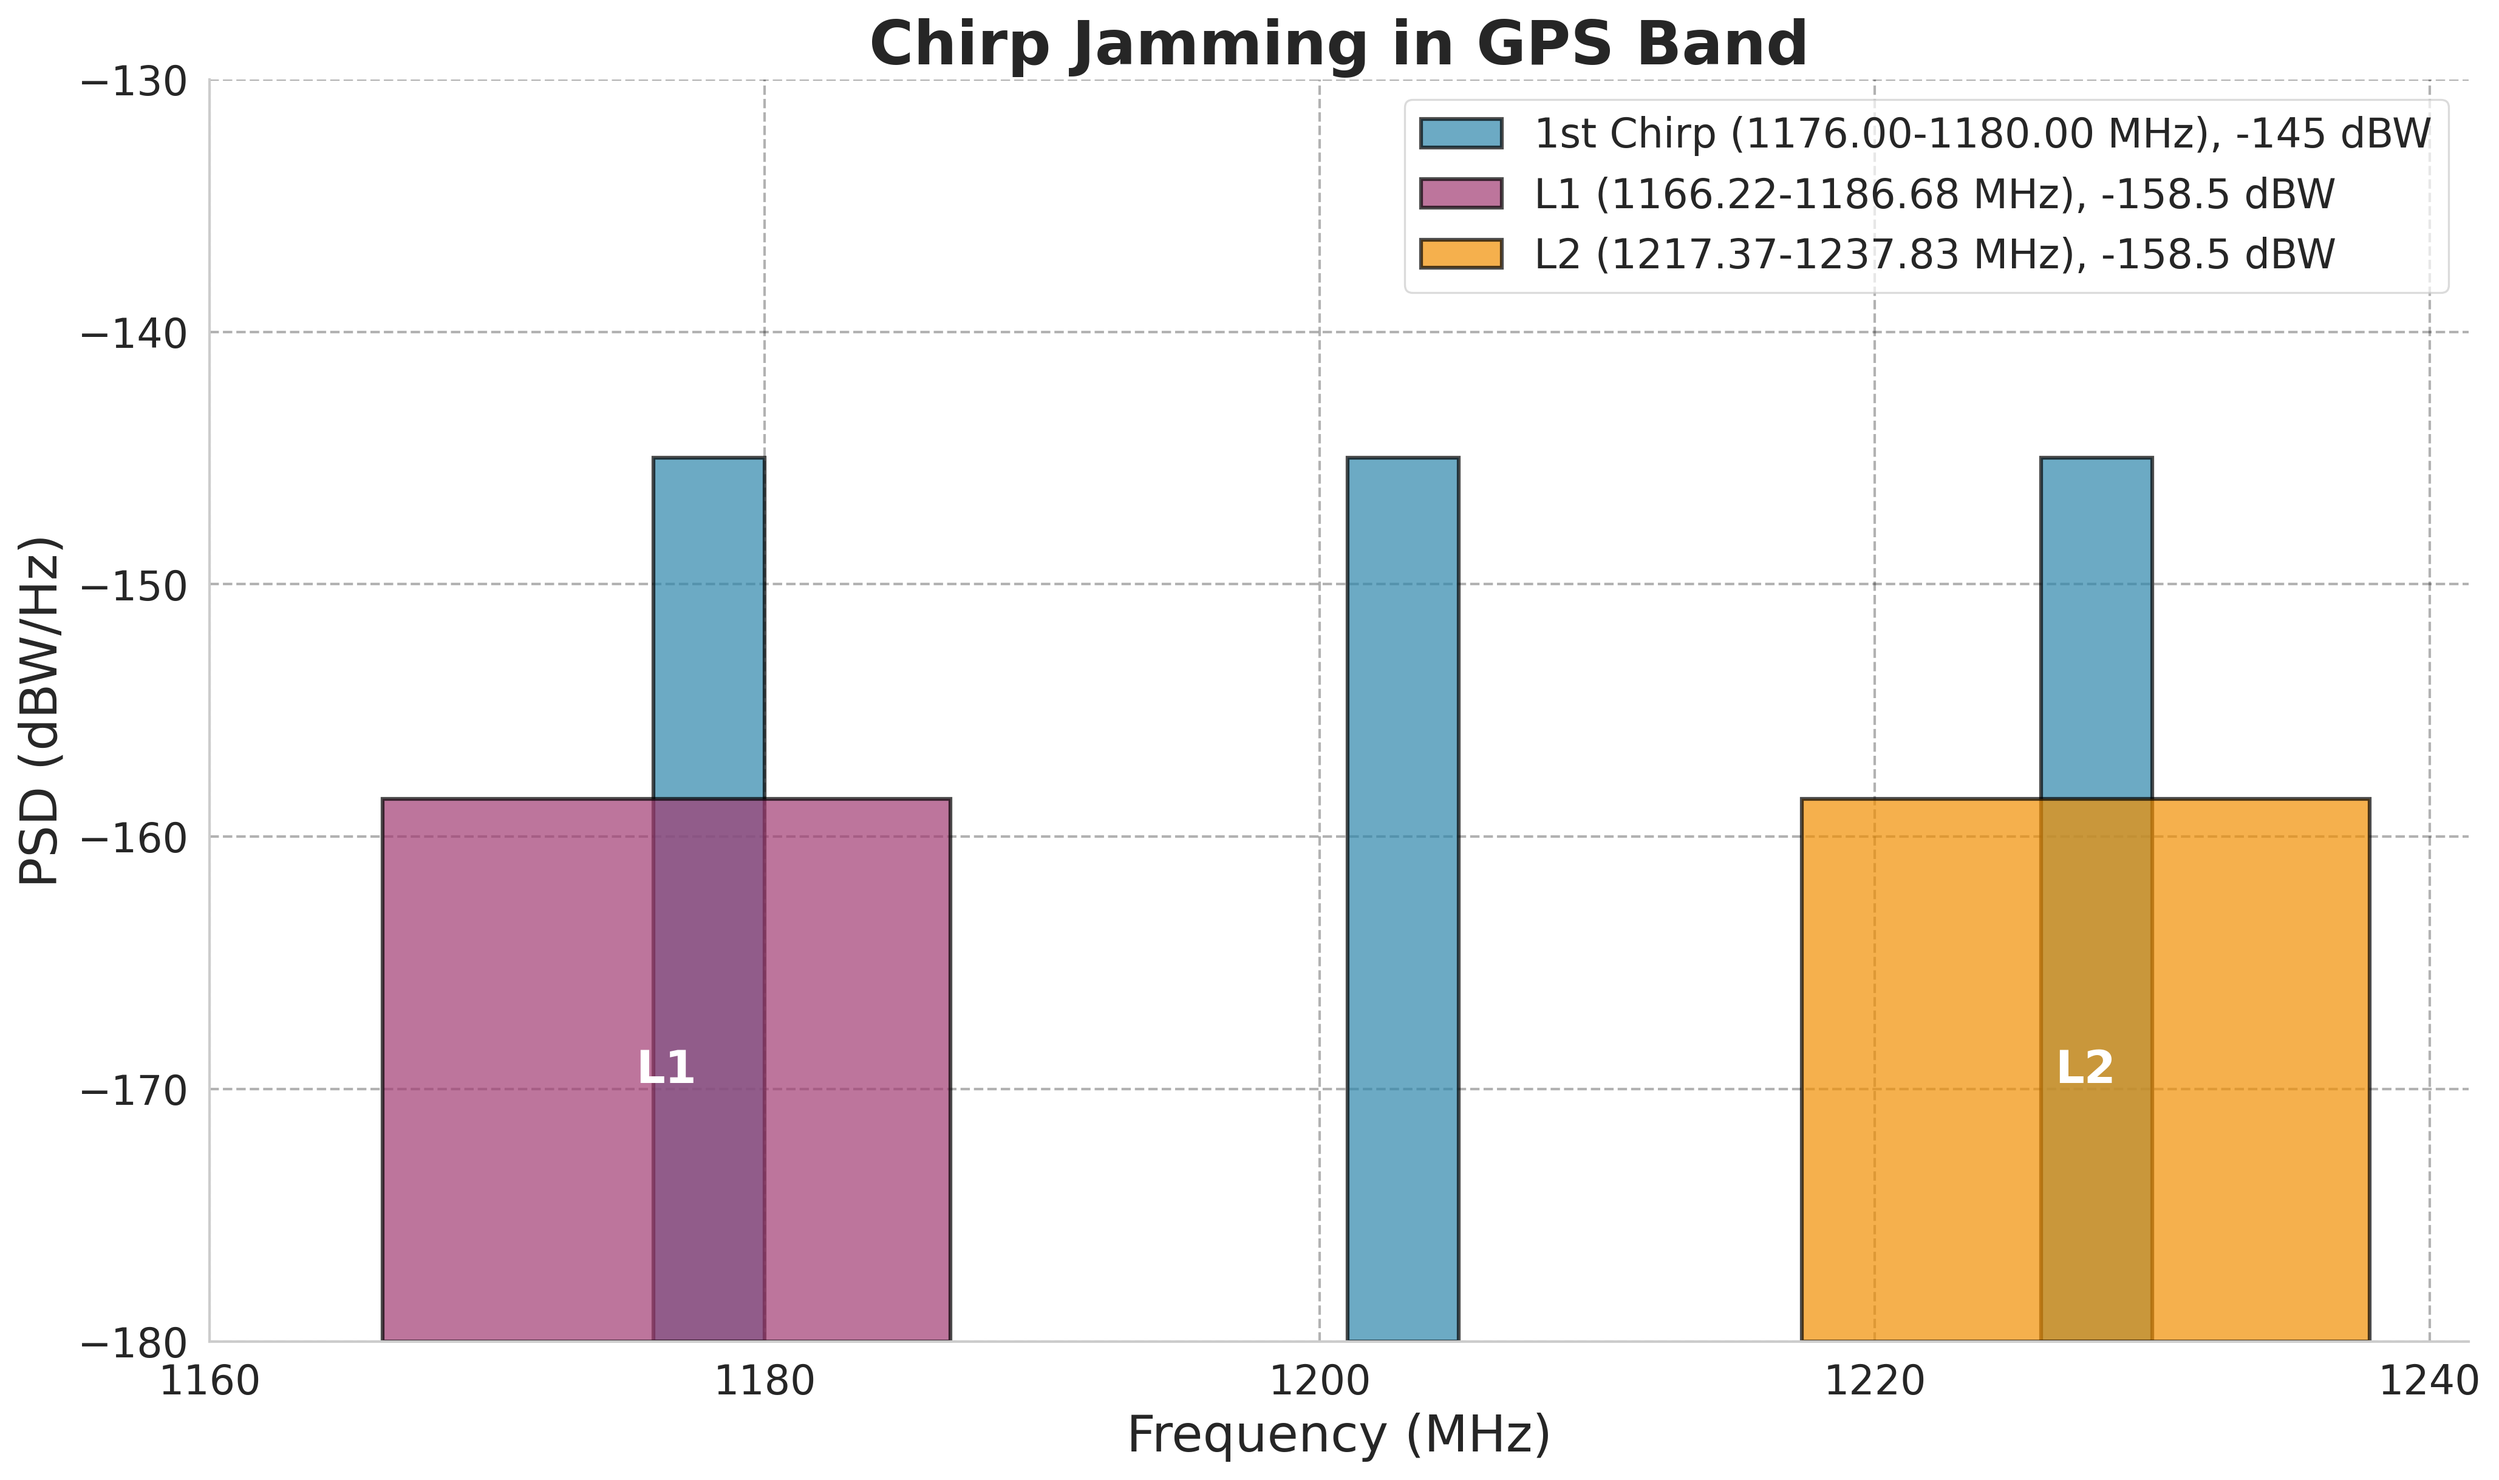
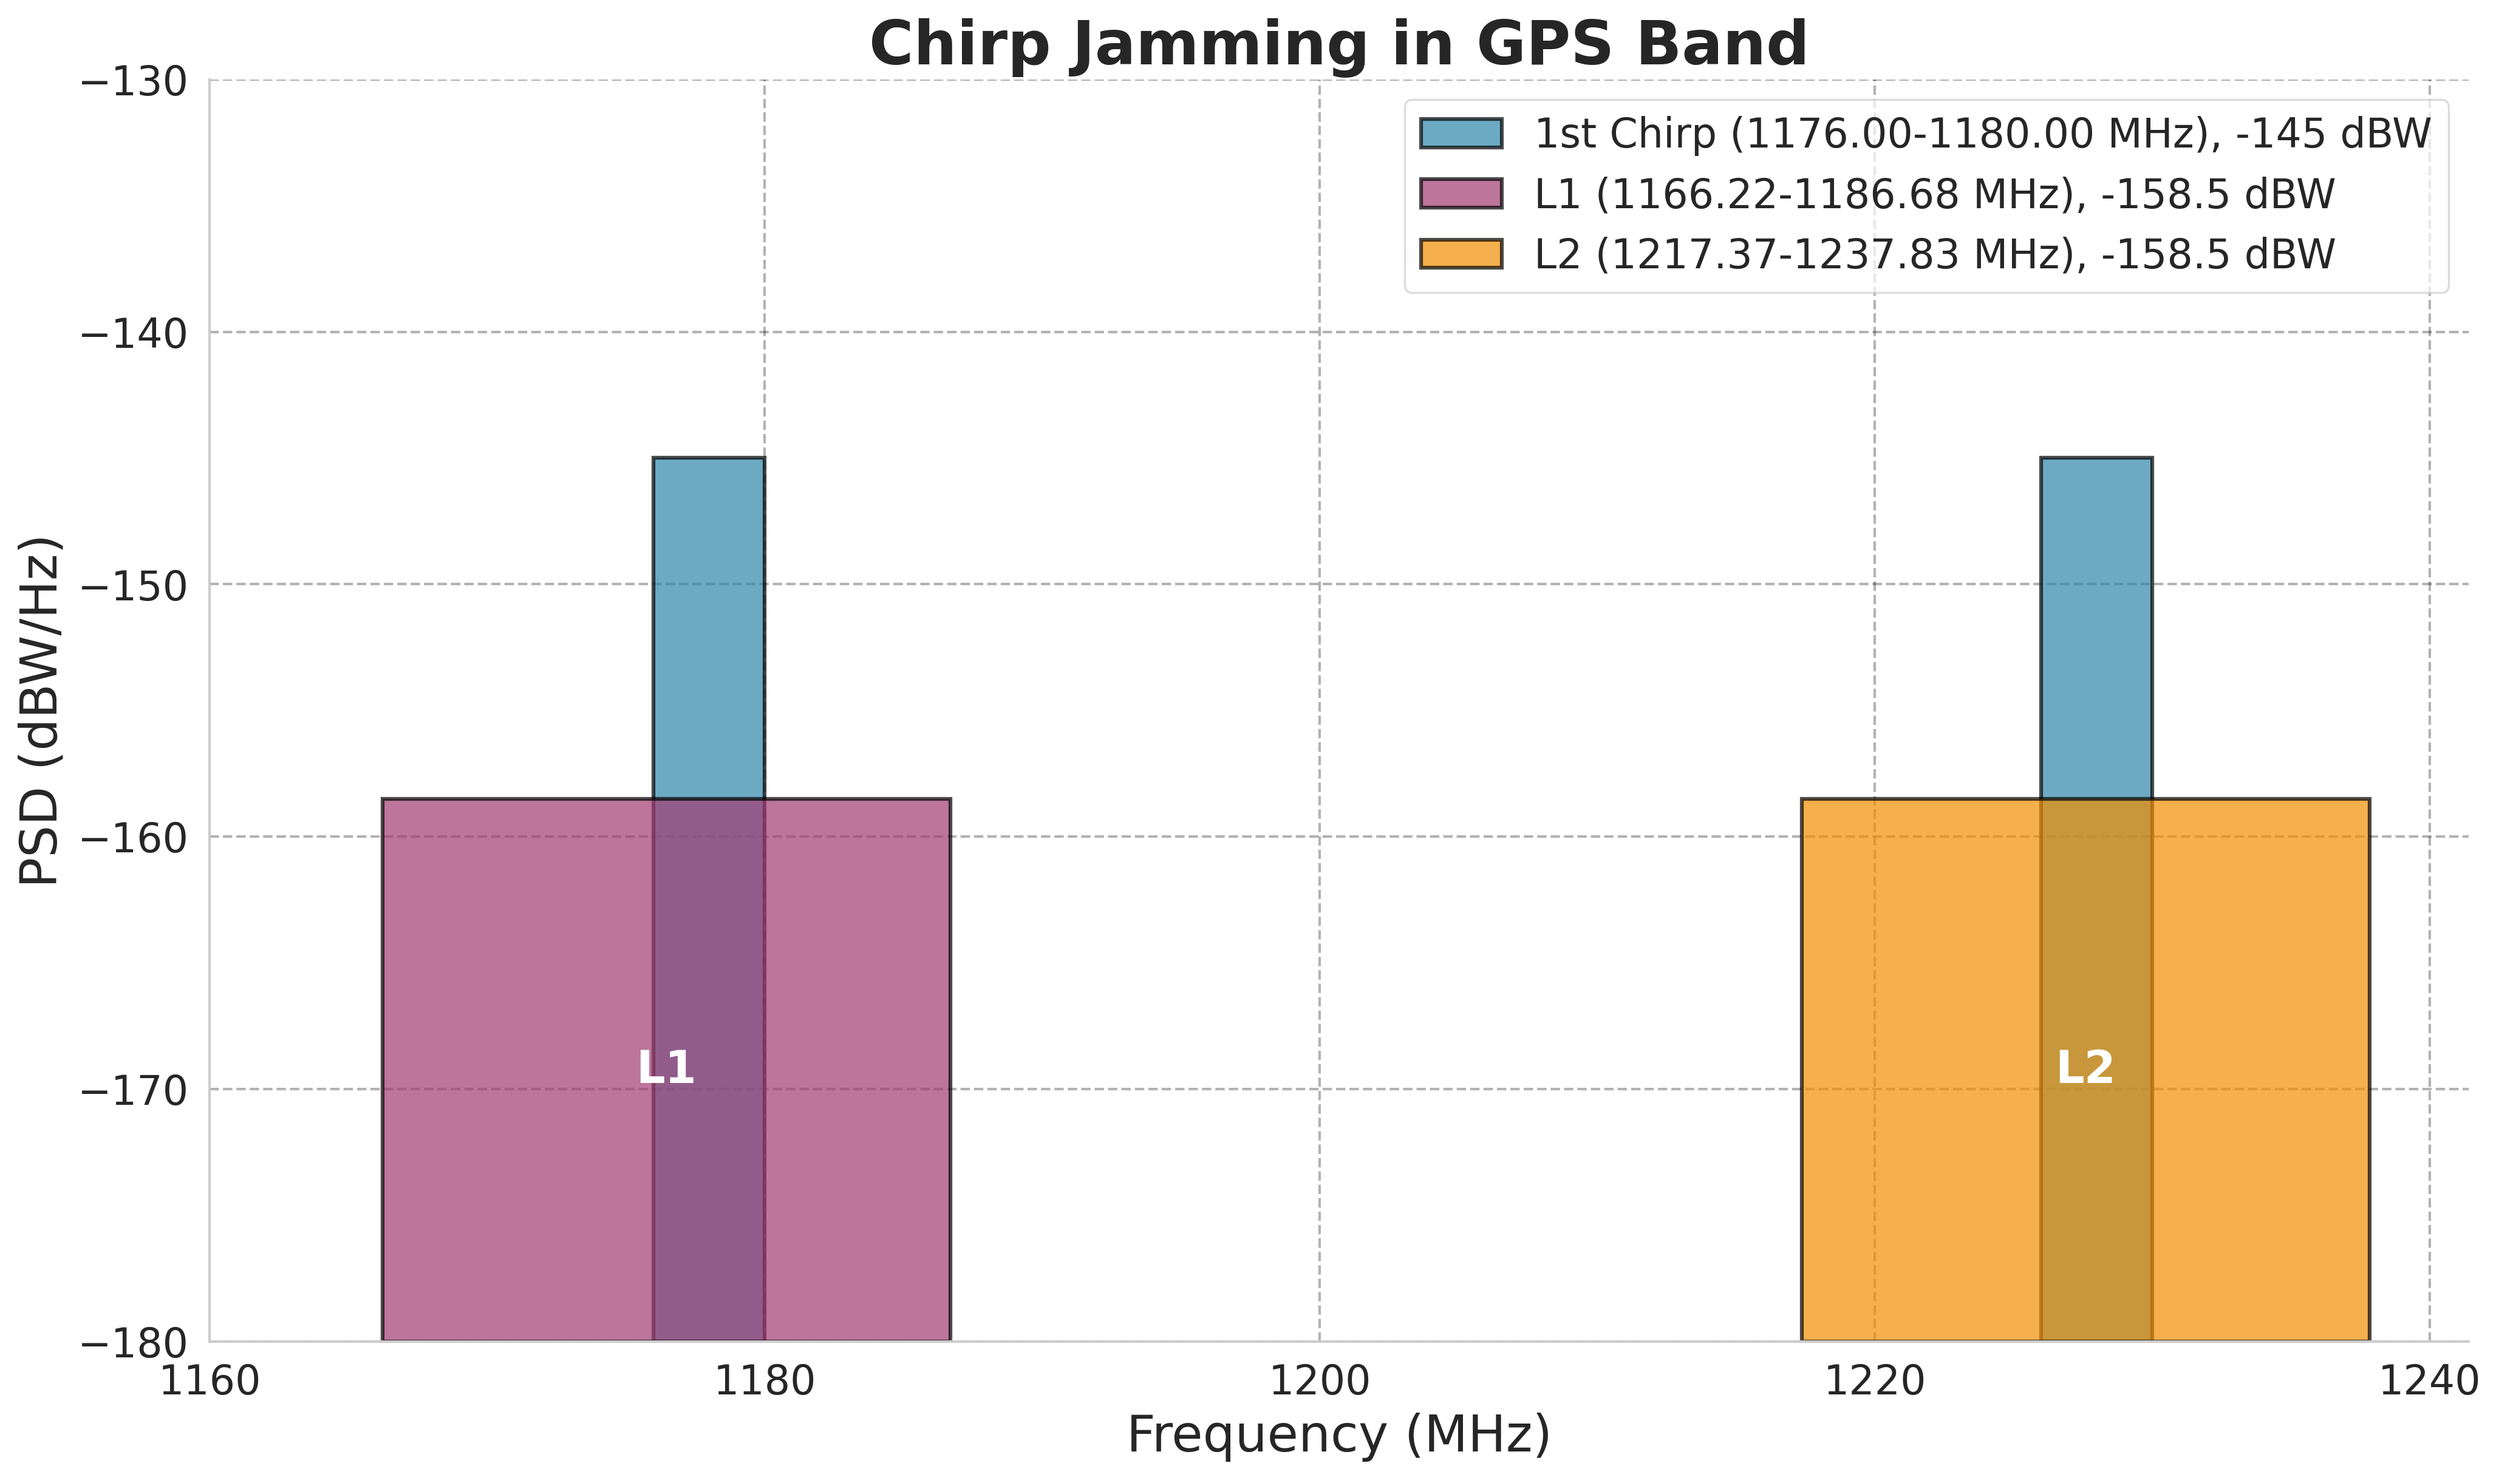
changes to figure script

Changed region(s): [[0.5288, 0.3117, 0.591, 0.904]]

diff --git a/figures/jamming_fig.py b/figures/jamming_fig.py
@@ -137,8 +137,8 @@ psd_values = {
 }
 figChirp, axChirp = plt.subplots()
 
-num_chirps = 3
-chirp_spacing = 25 
+num_chirps = 2
+chirp_spacing = 50 
 
 colors = [get_color('first'), get_color('second'), get_color('third'), get_color('fourth')]
 for idx, (band_name, band_info) in enumerate(bandsChirp.items()):
